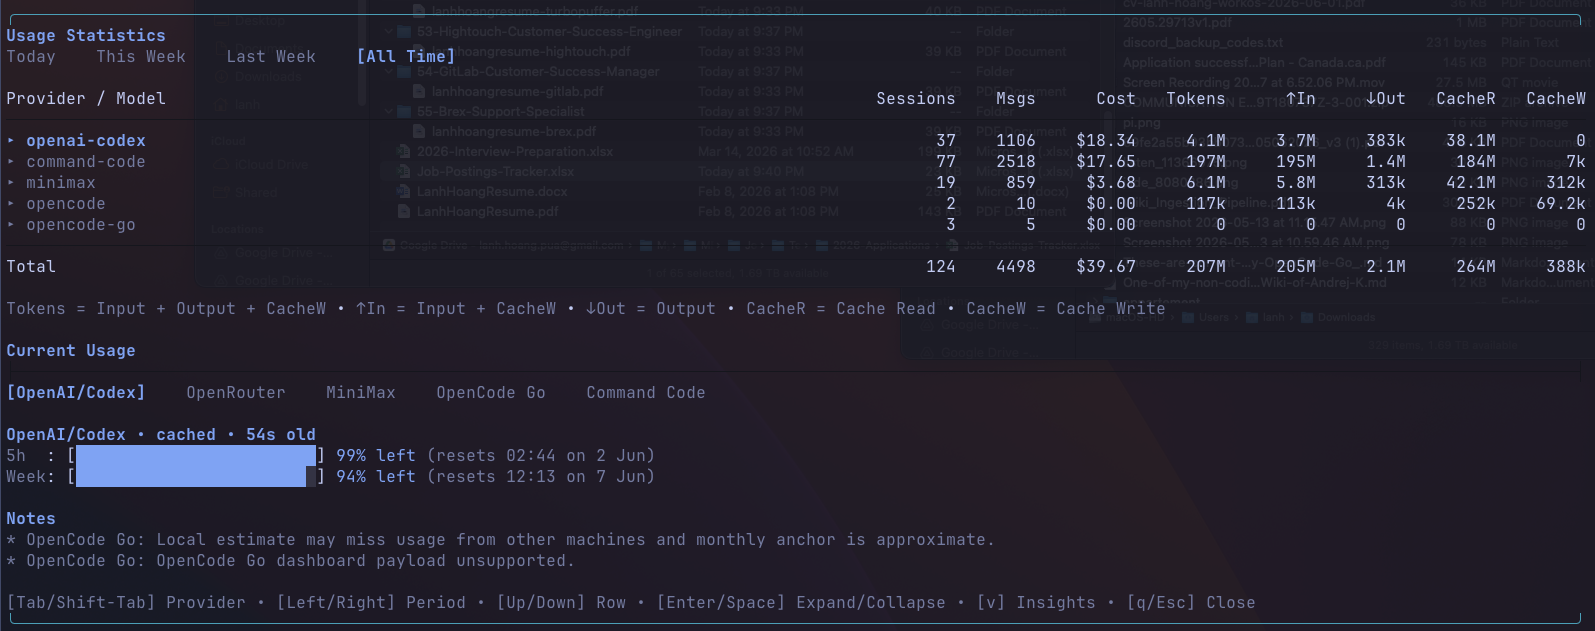
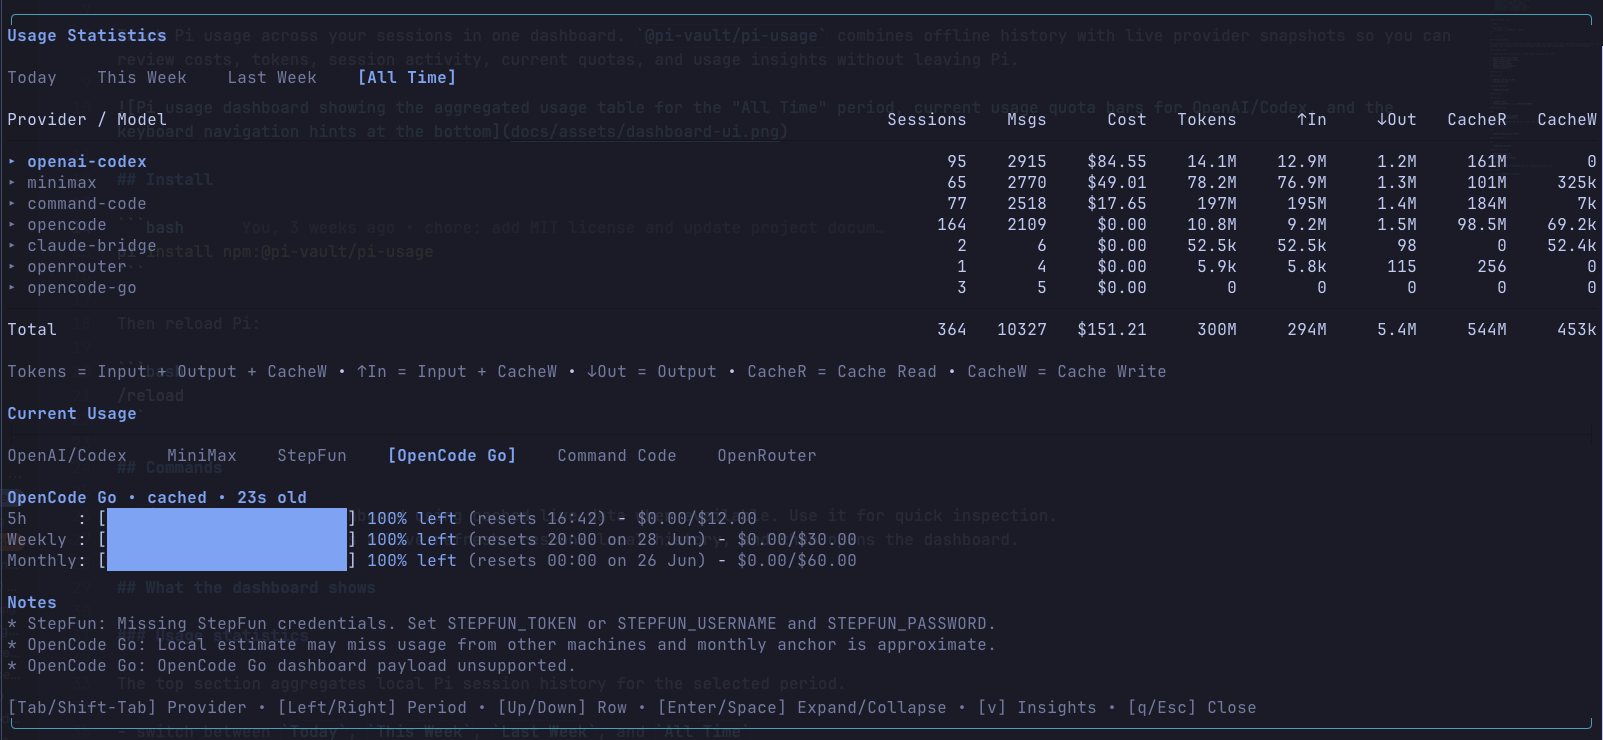
chore: update CHANGELOG

diff --git a/CHANGELOG.md b/CHANGELOG.md
@@ -2,6 +2,10 @@
 
 All notable changes to `@pi-vault/pi-usage` are documented here.
 
+## v0.5.1
+
+- updated `@earendil-works/pi-coding-agent` to `^0.80.2`, `@earendil-works/pi-tui` to `^0.80.2`, `@types/node` to `^26.0.0`, and `vitest` to `^4.1.9`
+
 ## v0.5.0
 
 - added `usage.json` provider toggles so you can disable live providers you do not want queried
